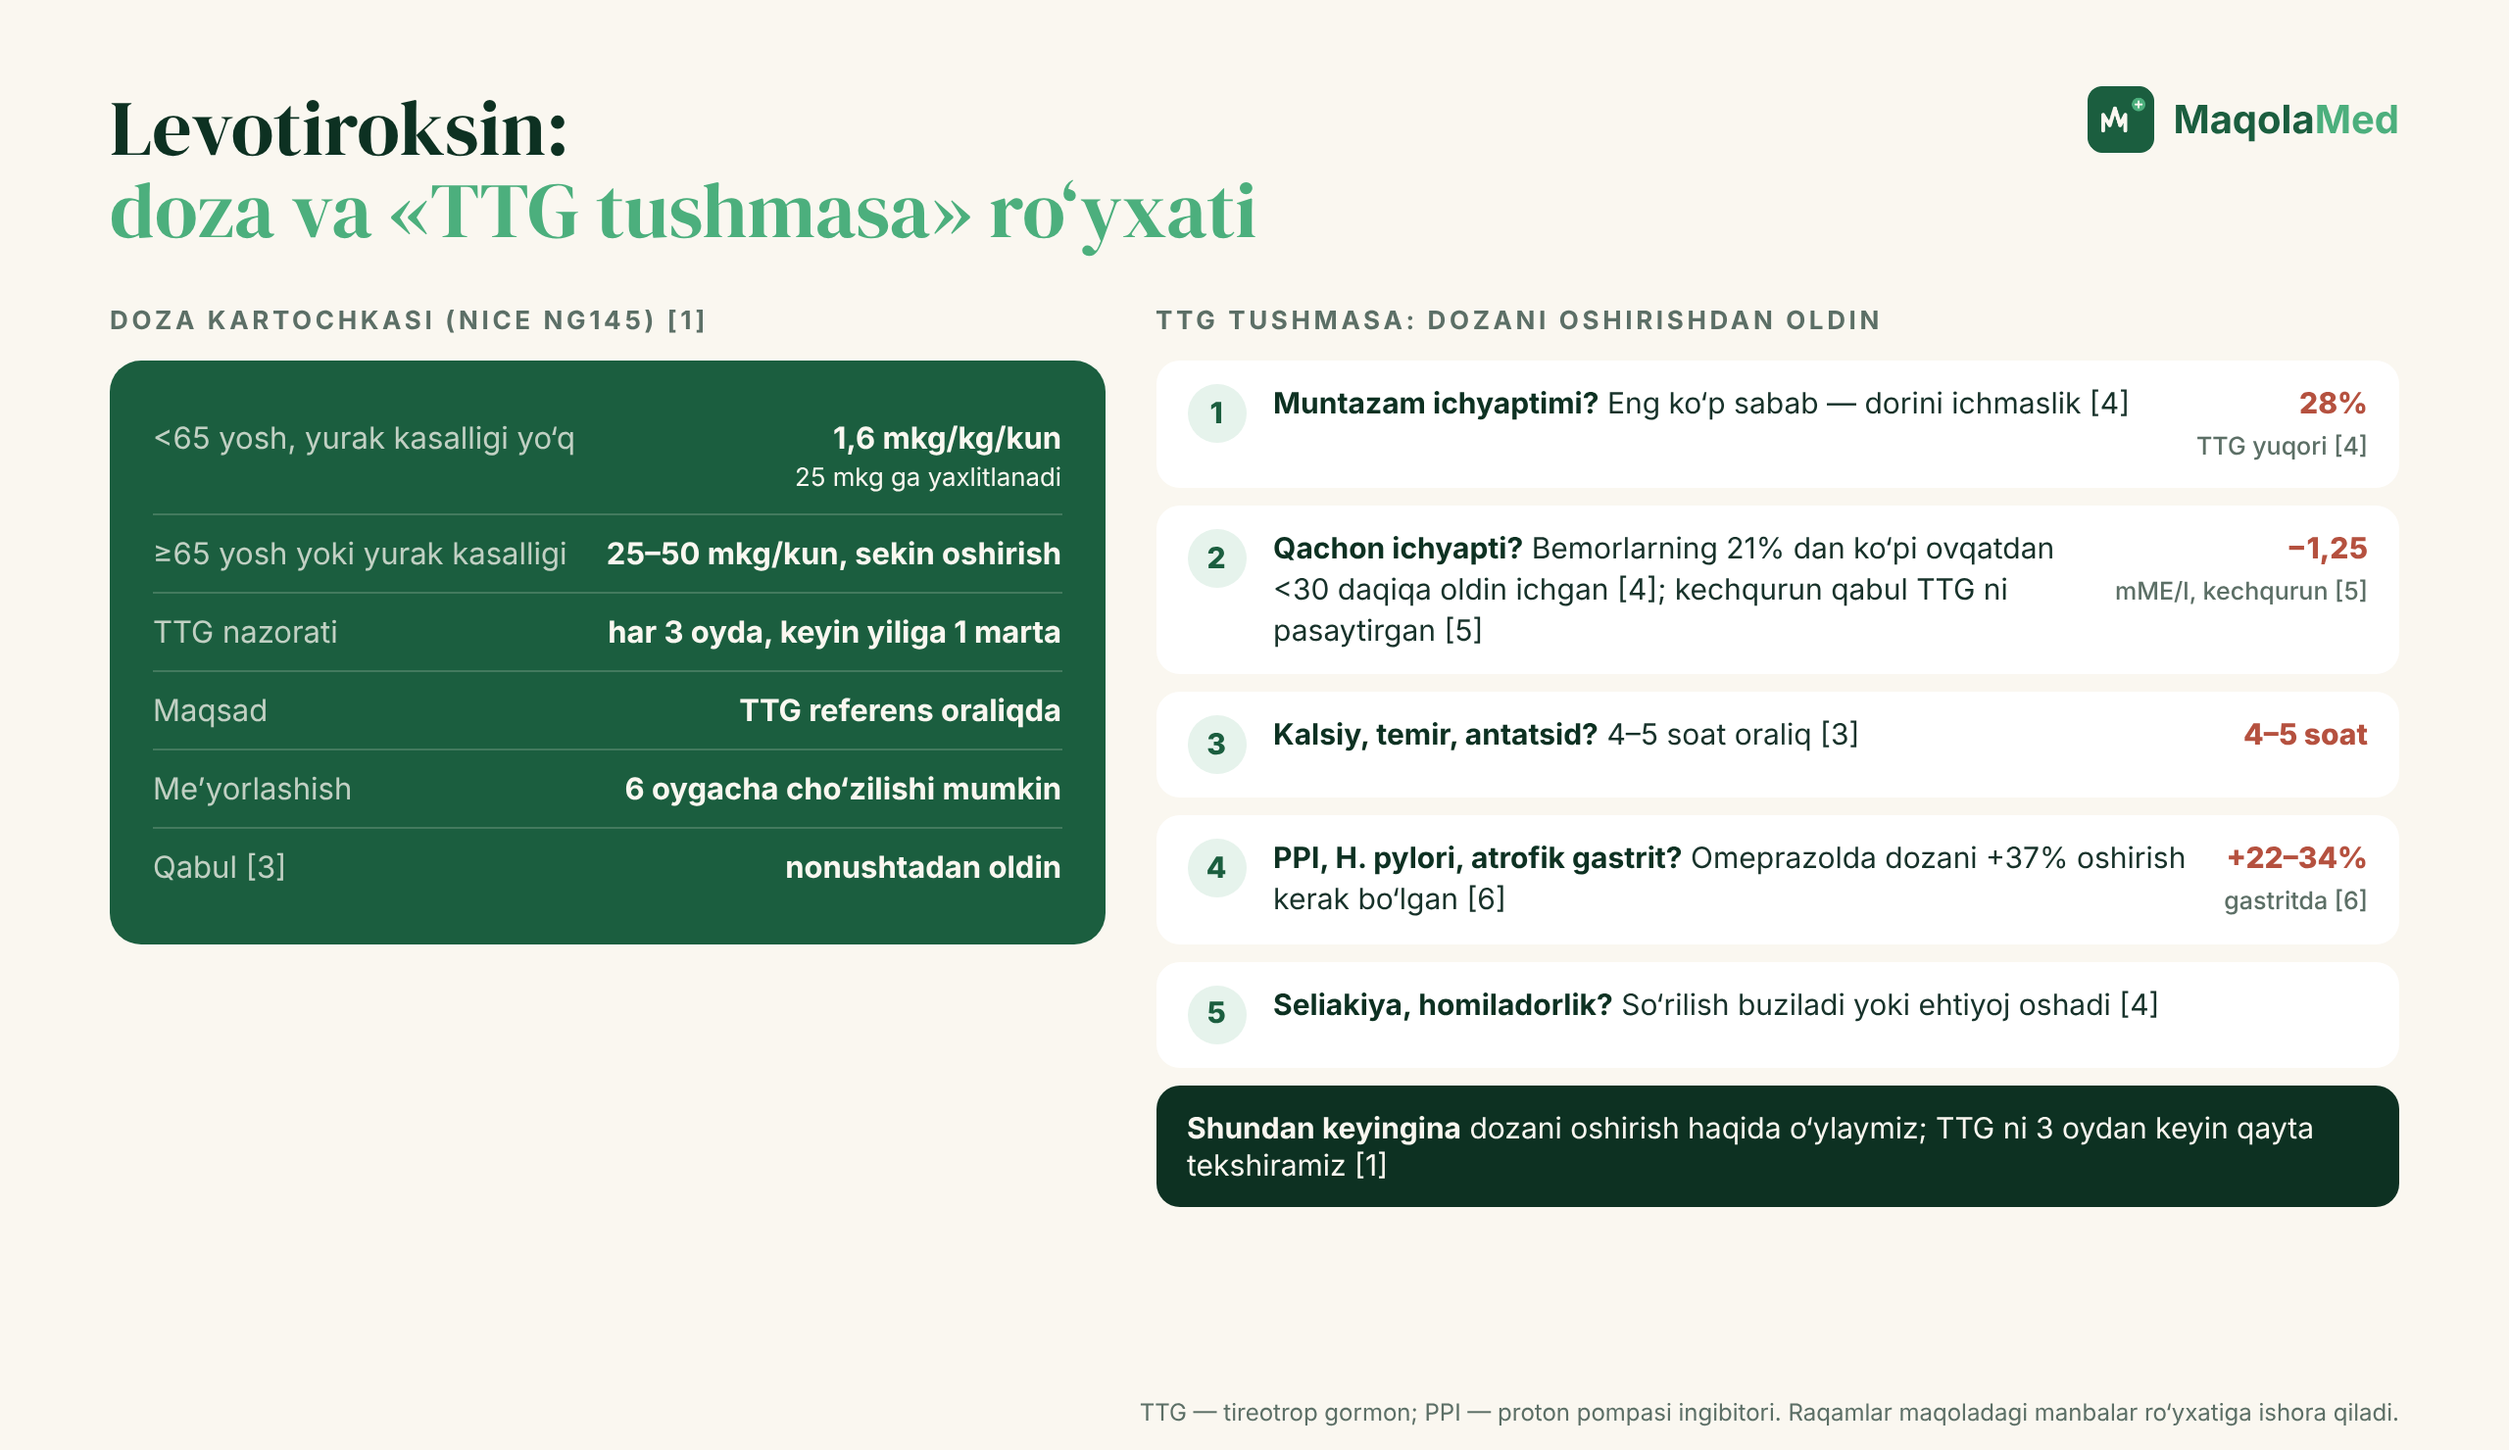
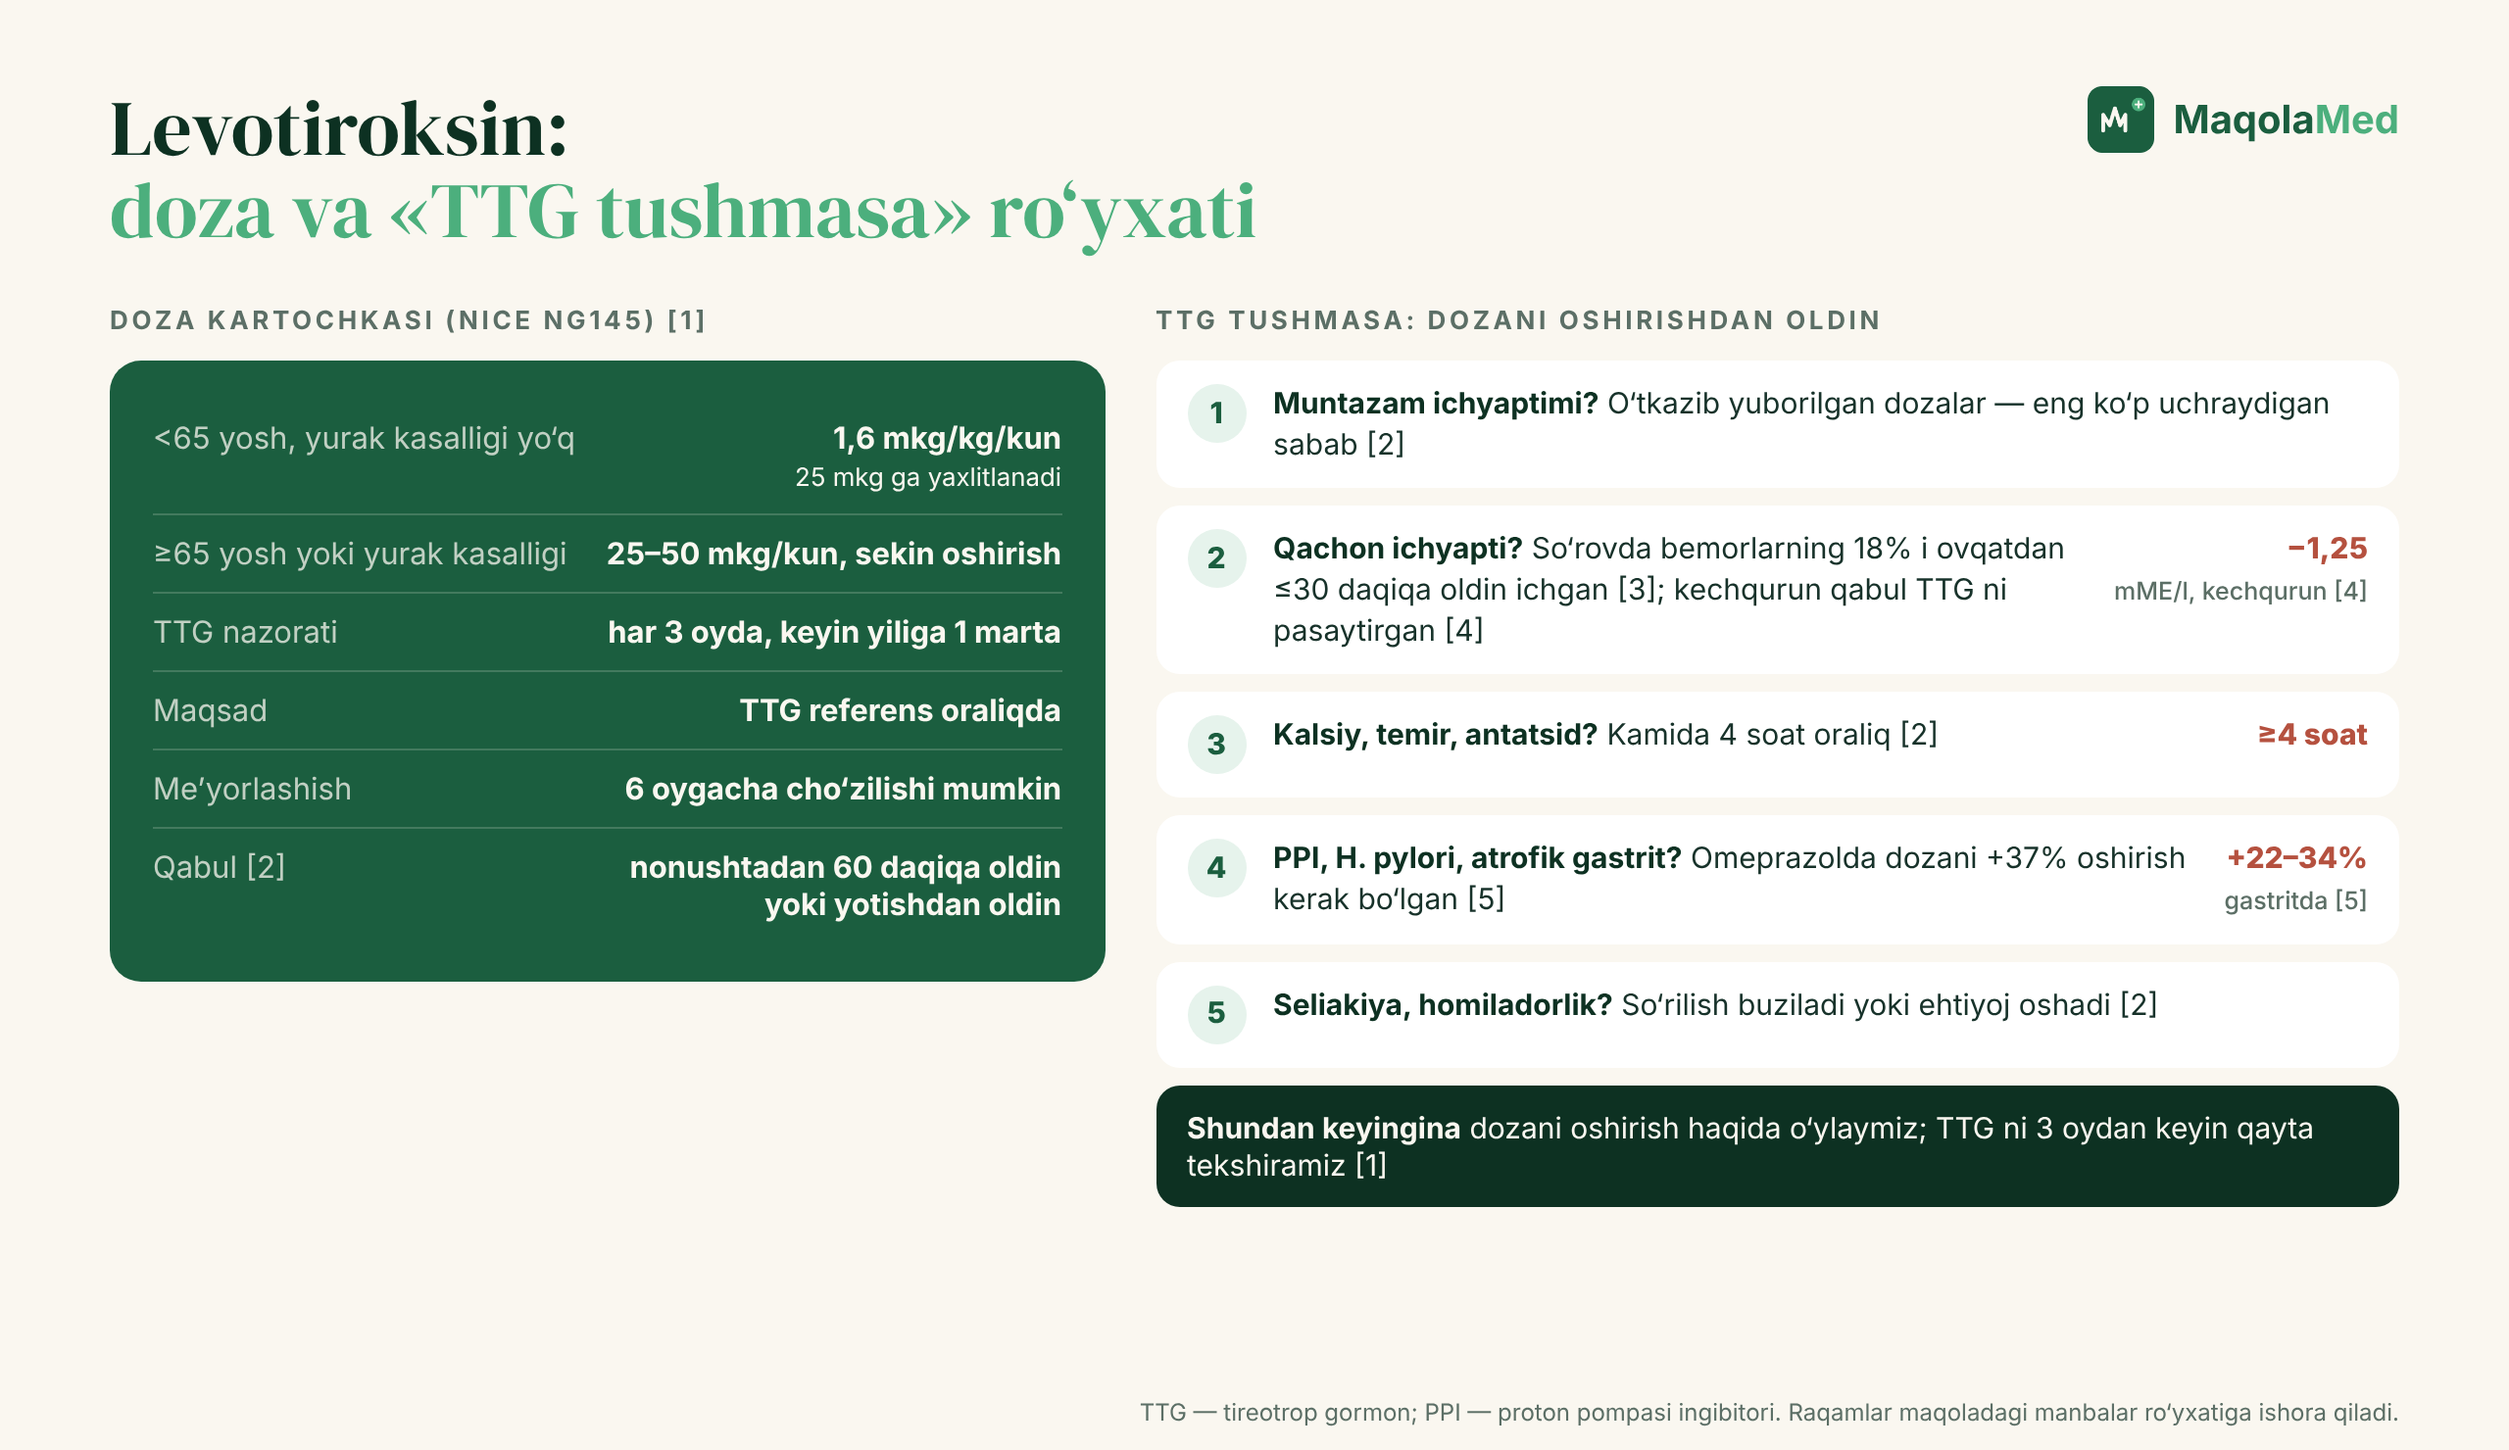
14-yanvar: 1-rasm va muqovalar manbalar bo‘yicha yangilandi

diff --git a/_manba/2027-01-14/1-rasm.html b/_manba/2027-01-14/1-rasm.html
@@ -54,15 +54,15 @@ h2.s{font-size:13px;letter-spacing:.14em;color:var(--muted);margin:0 0 12px;font
 <div class="r"><span>TTG nazorati</span><span>har 3 oyda, keyin yiliga 1 marta</span></div>
 <div class="r"><span>Maqsad</span><span>TTG referens oraliqda</span></div>
 <div class="r"><span>Me’yorlashish</span><span>6 oygacha cho‘zilishi mumkin</span></div>
-<div class="r"><span>Qabul [3]</span><span>nonushtadan oldin</span></div>
+<div class="r"><span>Qabul [2]</span><span>nonushtadan 60 daqiqa oldin<br>yoki yotishdan oldin</span></div>
 </div>
 </div><div>
 <h2 class="s">TTG TUSHMASA: DOZANI OSHIRISHDAN OLDIN</h2>
-<div class="ck"><div class="n">1</div><div><b>Muntazam ichyaptimi?</b> Eng ko‘p sabab — dorini ichmaslik [4]</div><div class="k">28%<br><small style="font-weight:500;color:var(--muted)">TTG yuqori [4]</small></div></div>
-<div class="ck"><div class="n">2</div><div><b>Qachon ichyapti?</b> Bemorlarning 21% dan ko‘pi ovqatdan &lt;30 daqiqa oldin ichgan [4]; kechqurun qabul TTG ni pasaytirgan [5]</div><div class="k">−1,25<br><small style="font-weight:500;color:var(--muted)">mME/l, kechqurun [5]</small></div></div>
-<div class="ck"><div class="n">3</div><div><b>Kalsiy, temir, antatsid?</b> 4–5 soat oraliq [3]</div><div class="k">4–5 soat</div></div>
-<div class="ck"><div class="n">4</div><div><b>PPI, H. pylori, atrofik gastrit?</b> Omeprazolda dozani +37% oshirish kerak bo‘lgan [6]</div><div class="k">+22–34%<br><small style="font-weight:500;color:var(--muted)">gastritda [6]</small></div></div>
-<div class="ck"><div class="n">5</div><div><b>Seliakiya, homiladorlik?</b> So‘rilish buziladi yoki ehtiyoj oshadi [4]</div></div>
+<div class="ck"><div class="n">1</div><div><b>Muntazam ichyaptimi?</b> O‘tkazib yuborilgan dozalar — eng ko‘p uchraydigan sabab [2]</div></div>
+<div class="ck"><div class="n">2</div><div><b>Qachon ichyapti?</b> So‘rovda bemorlarning 18% i ovqatdan ≤30 daqiqa oldin ichgan [3]; kechqurun qabul TTG ni pasaytirgan [4]</div><div class="k">−1,25<br><small style="font-weight:500;color:var(--muted)">mME/l, kechqurun [4]</small></div></div>
+<div class="ck"><div class="n">3</div><div><b>Kalsiy, temir, antatsid?</b> Kamida 4 soat oraliq [2]</div><div class="k">≥4 soat</div></div>
+<div class="ck"><div class="n">4</div><div><b>PPI, H. pylori, atrofik gastrit?</b> Omeprazolda dozani +37% oshirish kerak bo‘lgan [5]</div><div class="k">+22–34%<br><small style="font-weight:500;color:var(--muted)">gastritda [5]</small></div></div>
+<div class="ck"><div class="n">5</div><div><b>Seliakiya, homiladorlik?</b> So‘rilish buziladi yoki ehtiyoj oshadi [2]</div></div>
 <div class="last"><b>Shundan keyingina</b> dozani oshirish haqida o‘ylaymiz; TTG ni 3 oydan keyin qayta tekshiramiz [1]</div>
 </div></div>
 <div class="src">TTG — tireotrop gormon; PPI — proton pompasi ingibitori. Raqamlar maqoladagi manbalar ro‘yxatiga ishora qiladi.</div></div></body></html>

diff --git a/_manba/2027-01-14/muqova-16x9.html b/_manba/2027-01-14/muqova-16x9.html
@@ -64,5 +64,5 @@ h1{font-size:76px}
 <h1>Levotiroksin:<br>nega TTG<br><em>tushmaydi?</em></h1>
 <div class="sub">Dozani oshirishdan oldin — stakan va nonushtaga qarang.</div></div>
 <div class="points"><div class="pt"><div class="ic"><svg viewBox="0 0 24 24"><rect x="3" y="8.5" width="18" height="7" rx="3.5" transform="rotate(-40 12 12)"/><path d="M9.3 9.3l5.4 5.4"/></svg></div><p>Dozani qanday hisoblaymiz?</p></div><div class="pt"><div class="ic"><svg viewBox="0 0 24 24"><circle cx="12" cy="12" r="9"/><path d="M12 7v5l3 2"/></svg></div><p>Qachon va nima bilan ichiladi?</p></div><div class="pt"><div class="ic"><svg viewBox="0 0 24 24"><circle cx="12" cy="12" r="9"/><path d="M9.5 9.5a2.5 2.5 0 1 1 3.5 2.3c-.7.3-1 .8-1 1.5v.7"/><path d="M12 17v.5"/></svg></div><p>TTG nega tushmaydi?</p></div><div class="pt"><div class="ic"><svg viewBox="0 0 24 24"><path d="M12 3l9.5 17h-19z"/><path d="M12 10v4"/><path d="M12 17v.5"/></svg></div><p>Ortiqcha davo qanchalik xavfli?</p></div></div>
-<div class="card"><div class="ch"><span class="lbl">DORI KARTOCHKASI</span><span class="pill">Tiroid gormoni</span></div><h3>Levotiroksin<small>Nonushtadan oldin, har kuni bir vaqtda</small></h3><div class="rows"><div class="row"><span>Boshlang‘ich doza</span><span>1,6 mkg/kg/kun</span></div><div class="row"><span>≥65 yosh, yurak kasalligi</span><span>25–50 mkg</span></div><div class="row"><span>TTG nazorati</span><span>har 3 oyda</span></div><div class="row"><span>Kalsiy, temir</span><span>4–5 soat oraliq</span></div><div class="row"><span>TTG ≤0,03</span><span>aritmiya, sinish xavfi</span></div></div><div class="quote">«Dozani yana oshiramizmi?»</div><div class="ask">Siz nima qilardingiz?<svg viewBox="0 0 24 24"><path d="M5 12h14"/><path d="M13 6l6 6-6 6"/></svg></div></div>
+<div class="card"><div class="ch"><span class="lbl">DORI KARTOCHKASI</span><span class="pill">Tiroid gormoni</span></div><h3>Levotiroksin<small>Nonushtadan oldin, har kuni bir vaqtda</small></h3><div class="rows"><div class="row"><span>Boshlang‘ich doza</span><span>1,6 mkg/kg/kun</span></div><div class="row"><span>≥65 yosh, yurak kasalligi</span><span>25–50 mkg</span></div><div class="row"><span>TTG nazorati</span><span>har 3 oyda</span></div><div class="row"><span>Kalsiy, temir</span><span>≥4 soat oraliq</span></div><div class="row"><span>TTG ≤0,03</span><span>aritmiya, sinish xavfi</span></div></div><div class="quote">«Dozani yana oshiramizmi?»</div><div class="ask">Siz nima qilardingiz?<svg viewBox="0 0 24 24"><path d="M5 12h14"/><path d="M13 6l6 6-6 6"/></svg></div></div>
 </div></body></html>

diff --git a/_manba/2027-01-14/muqova-instagram-4x5.html b/_manba/2027-01-14/muqova-instagram-4x5.html
@@ -79,5 +79,5 @@ h1{font-size:94px}
 <h1>Levotiroksin:<br>nega TTG<br><em>tushmaydi?</em></h1>
 <div class="sub">Dozani oshirishdan oldin — stakan va nonushtaga qarang.</div></div>
 <div class="points"><div class="pt"><div class="ic"><svg viewBox="0 0 24 24"><rect x="3" y="8.5" width="18" height="7" rx="3.5" transform="rotate(-40 12 12)"/><path d="M9.3 9.3l5.4 5.4"/></svg></div><p>Dozani qanday hisoblaymiz?</p></div><div class="pt"><div class="ic"><svg viewBox="0 0 24 24"><circle cx="12" cy="12" r="9"/><path d="M12 7v5l3 2"/></svg></div><p>Qachon va nima bilan ichiladi?</p></div><div class="pt"><div class="ic"><svg viewBox="0 0 24 24"><circle cx="12" cy="12" r="9"/><path d="M9.5 9.5a2.5 2.5 0 1 1 3.5 2.3c-.7.3-1 .8-1 1.5v.7"/><path d="M12 17v.5"/></svg></div><p>TTG nega tushmaydi?</p></div><div class="pt"><div class="ic"><svg viewBox="0 0 24 24"><path d="M12 3l9.5 17h-19z"/><path d="M12 10v4"/><path d="M12 17v.5"/></svg></div><p>Ortiqcha davo qanchalik xavfli?</p></div></div>
-<div class="card"><div class="ch"><span class="lbl">DORI KARTOCHKASI</span><span class="pill">Tiroid gormoni</span></div><h3>Levotiroksin<small>Nonushtadan oldin, har kuni bir vaqtda</small></h3><div class="rows"><div class="row"><span>Boshlang‘ich doza</span><span>1,6 mkg/kg/kun</span></div><div class="row"><span>≥65 yosh, yurak kasalligi</span><span>25–50 mkg</span></div><div class="row"><span>TTG nazorati</span><span>har 3 oyda</span></div><div class="row"><span>Kalsiy, temir</span><span>4–5 soat oraliq</span></div><div class="row"><span>TTG ≤0,03</span><span>aritmiya, sinish xavfi</span></div></div><div class="quote">«Dozani yana oshiramizmi?»</div><div class="ask">Siz nima qilardingiz?<svg viewBox="0 0 24 24"><path d="M5 12h14"/><path d="M13 6l6 6-6 6"/></svg></div></div>
+<div class="card"><div class="ch"><span class="lbl">DORI KARTOCHKASI</span><span class="pill">Tiroid gormoni</span></div><h3>Levotiroksin<small>Nonushtadan oldin, har kuni bir vaqtda</small></h3><div class="rows"><div class="row"><span>Boshlang‘ich doza</span><span>1,6 mkg/kg/kun</span></div><div class="row"><span>≥65 yosh, yurak kasalligi</span><span>25–50 mkg</span></div><div class="row"><span>TTG nazorati</span><span>har 3 oyda</span></div><div class="row"><span>Kalsiy, temir</span><span>≥4 soat oraliq</span></div><div class="row"><span>TTG ≤0,03</span><span>aritmiya, sinish xavfi</span></div></div><div class="quote">«Dozani yana oshiramizmi?»</div><div class="ask">Siz nima qilardingiz?<svg viewBox="0 0 24 24"><path d="M5 12h14"/><path d="M13 6l6 6-6 6"/></svg></div></div>
 </div></body></html>
